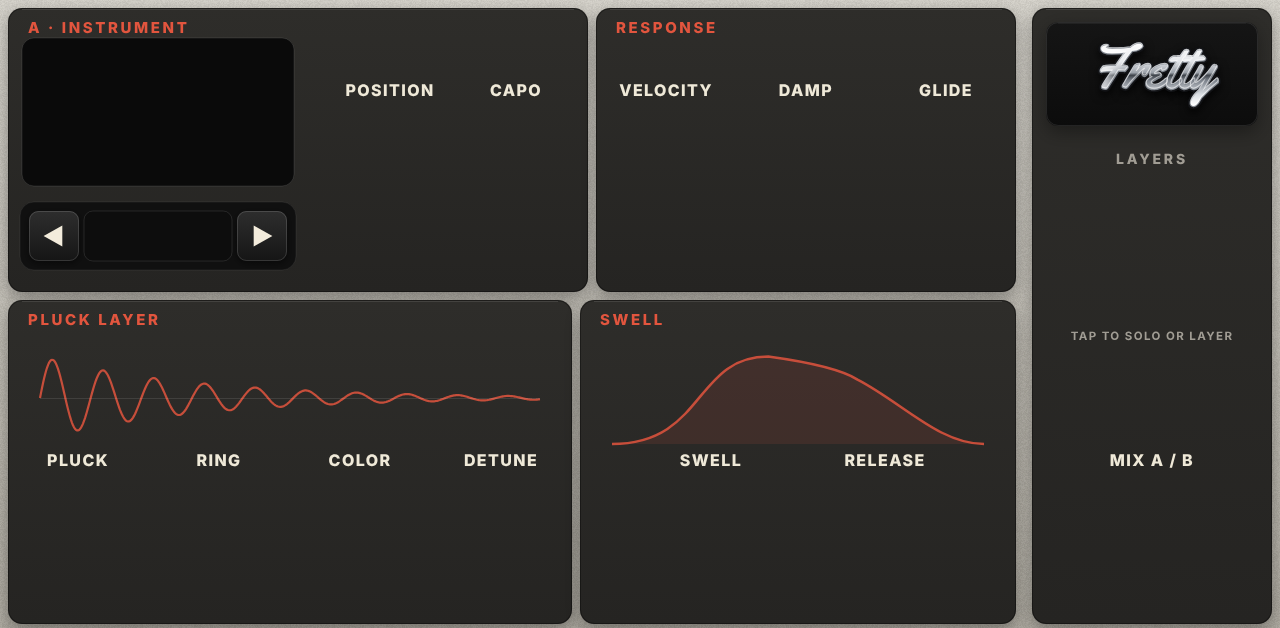
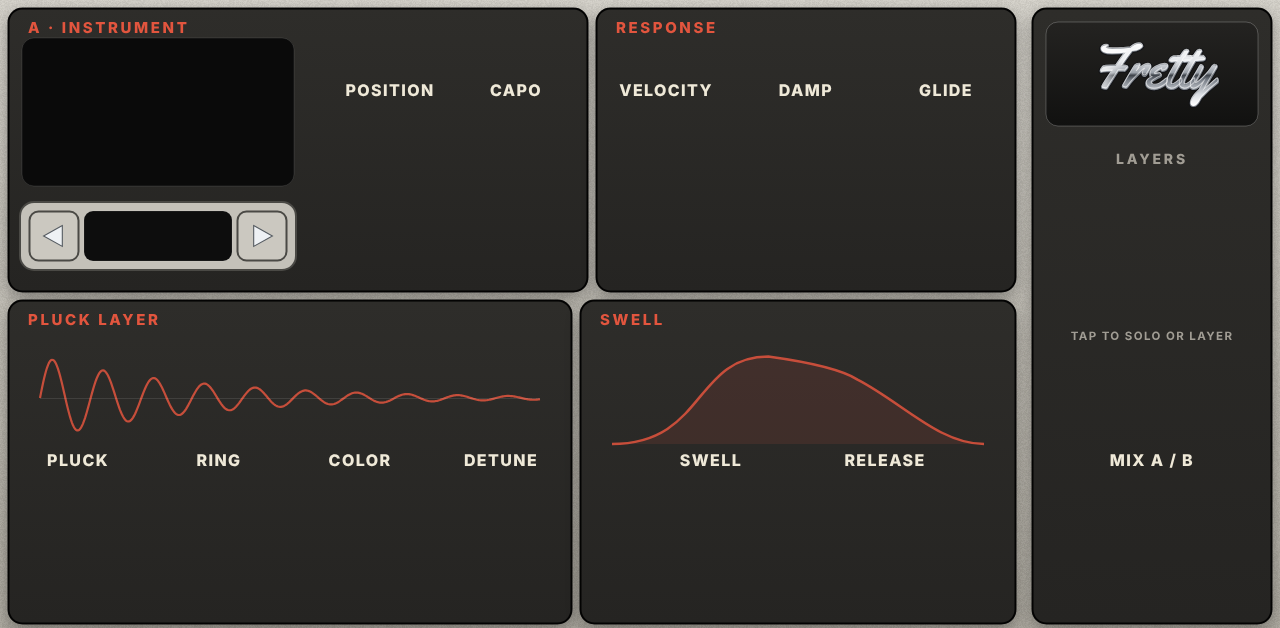
Grey ebony fretboard; drop theme-selector shadow on Surf/Violet
- MPC Grey: fretboard changed from rosewood (near-identical to Sunburst) to a
  cool ebony/charcoal that fits the brushed-metal grey theme.
- Surf/Violet: the theme selector's plate drop shadow is now skipped (as Grey
  already does), so the chassis no longer peeks underneath as a shadow. No
  colour or outline changes -- each theme keeps its own selector styling.
- Black and Sunburst untouched.

Host test PASSES. Offline render verified Surf's selector now matches Grey's.

Claude-Session: https://claude.ai/code/session_01JcLVFze8v8Y4tH6ncAnRZY

diff --git a/tools/make_skin.py b/tools/make_skin.py
@@ -129,8 +129,8 @@ const T = {
               binding:'#eadfc6', inlay:'#f4ecdb', head:['#2a190f','#160d08'], btn1:'#30241b', btn2:'#1b140f', btnEdge:'rgba(214,219,226,0.35)', btnText:'#f2e7d3',
               screw:['#f2f4f6','#6f747a'], rule:'#c9ced4', chassisText:'#ad9a7e' },
   grey:     { bg1:'#d6d3cb', bg2:'#aeaaa0', noise:0.06, panel1:'#2e2d2a', panel2:'#252422', edge:'rgba(0,0,0,0.35)', hi:'rgba(255,255,255,0.10)',
-              title:'#e2553e', dim:'#a19d94', accent:'#d03f2a', accentText:'#fff6f1', wood:['#3b2519','#25160e','#543525'], grain:'dark',
-              binding:'#efe6cf', inlay:'#efe8da', head:['#2c1b12','#170e09'], btn1:'#e6e3dc', btn2:'#c4c0b7', btnEdge:'rgba(0,0,0,0.22)', btnText:'#2a2926',
+              title:'#e2553e', dim:'#a19d94', accent:'#d03f2a', accentText:'#fff6f1', wood:['#2c2d31','#191a1d','#3a3c42'], grain:'dark',
+              binding:'#efe6cf', inlay:'#e9ebee', head:['#232428','#121316'], btn1:'#e6e3dc', btn2:'#c4c0b7', btnEdge:'rgba(0,0,0,0.22)', btnText:'#2a2926',
               screw:['#f1efea','#8b877e'], rule:'#d03f2a', chassisText:'#a19d94' },
   surf:     { bg1:'#a6d0bd', bg2:'#78ab97', noise:0.06, panel1:'#273530', panel2:'#1e2a26', edge:'rgba(0,0,0,0.35)', hi:'rgba(255,255,255,0.10)',
               title:'#e8603f', dim:'#46695b', accent:'#e8603f', accentText:'#fff6f1', wood:['#dbb67c','#c09658','#efd3a0'], grain:'light',
@@ -713,7 +713,7 @@ function arrowPlates(t, w, h, ox, oy) {
 
   const plate = (x, d) => {
     ctx.save();
-    if (t !== T.grey) {
+    if (!(t === T.grey || t === T.surf || t === T.violet)) {
       ctx.shadowColor = 'rgba(0,0,0,0.38)';
       ctx.shadowBlur = 6;
       ctx.shadowOffsetY = 2;
